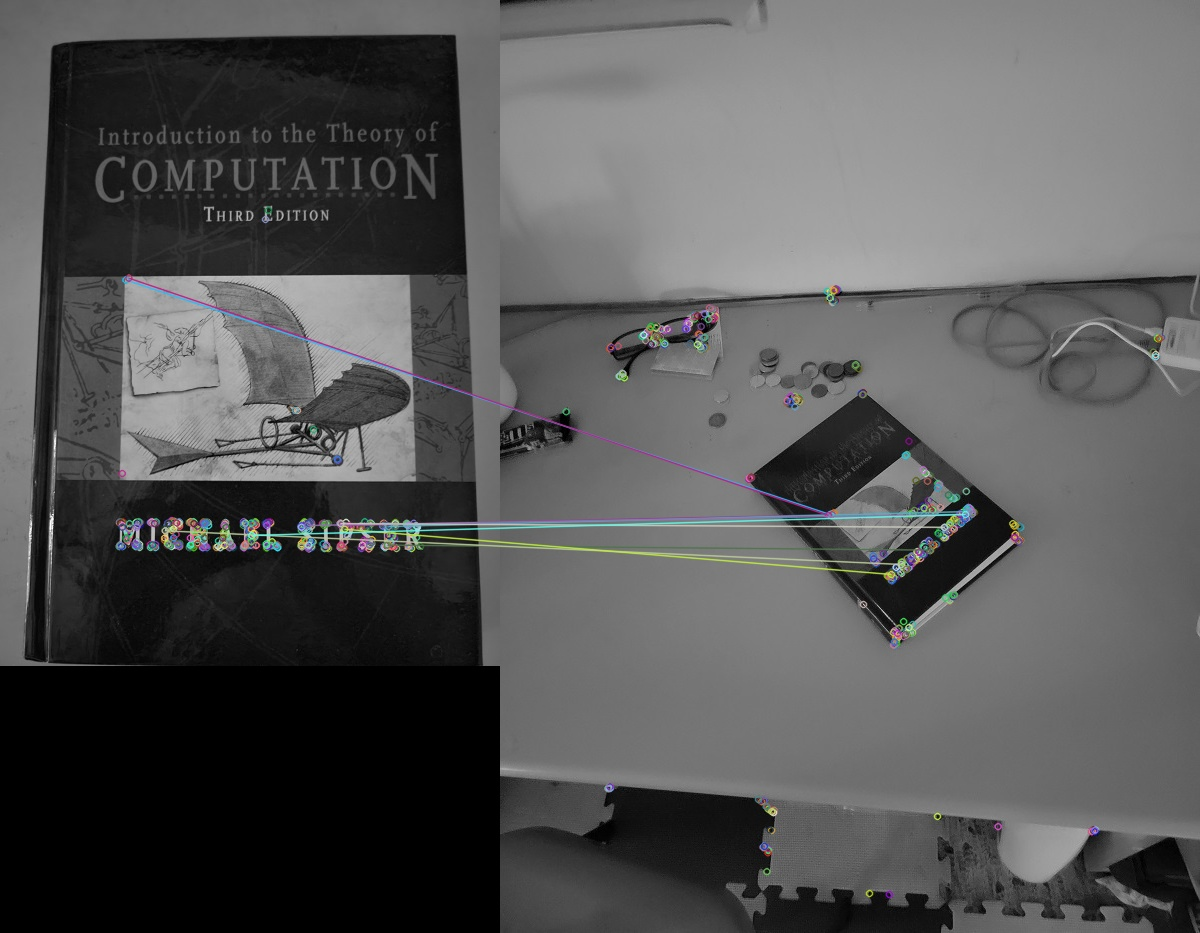
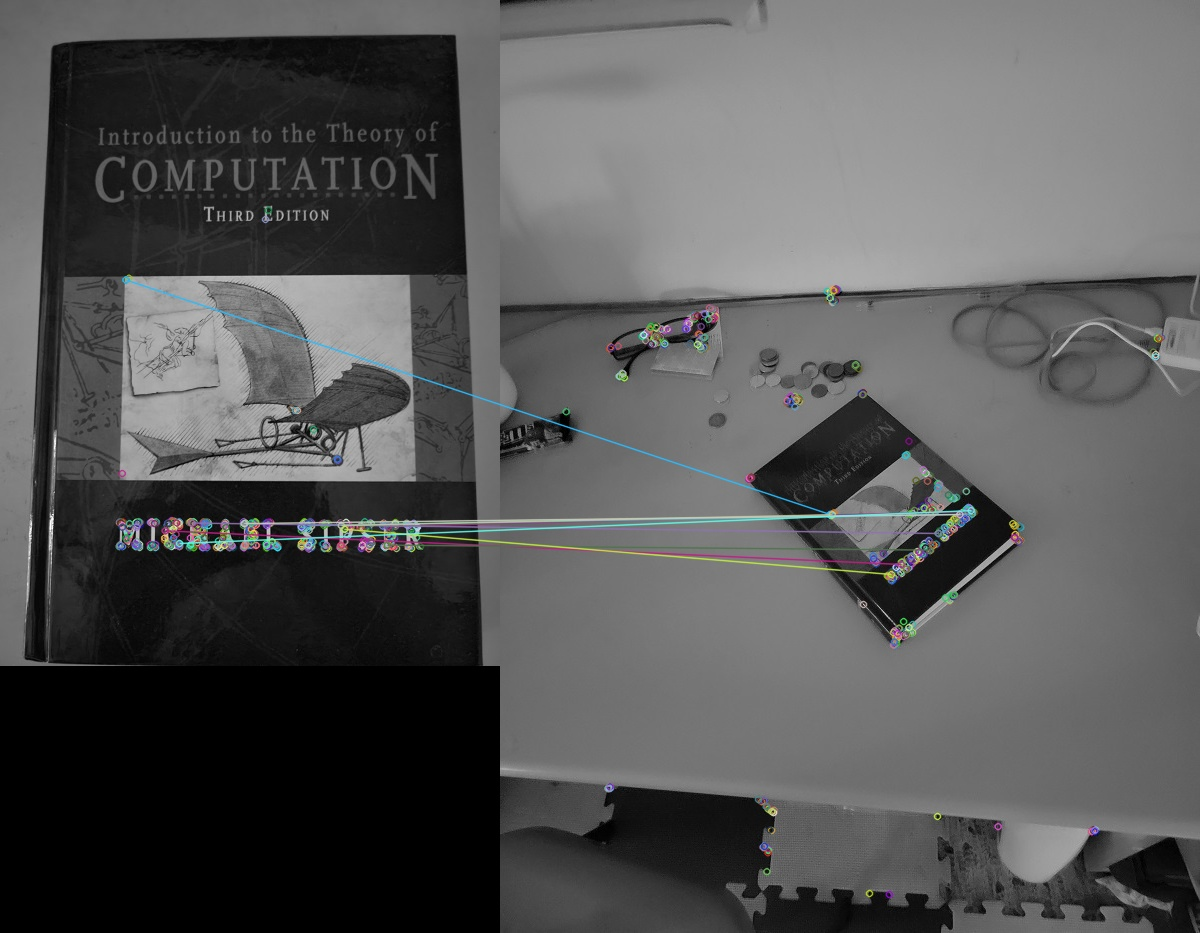
5/31 update lab11

diff --git a/lab11/lab11.py b/lab11/lab11.py
@@ -15,7 +15,7 @@ def main():
     detector = cv2.xfeatures2d.SURF_create()
     keypoints1, descriptors1 = detector.detectAndCompute(img1, None)
     keypoints2, descriptors2 = detector.detectAndCompute(img2, None)
-    matcher = cv2.BFMatcher(cv2.NORM_L1,crossCheck=False)
+    matcher = cv2.BFMatcher(cv2.NORM_L2,crossCheck=True)
     matches = matcher.match(descriptors1, descriptors2)
 
     matches = sorted(matches, key = lambda x : x.distance)
@@ -34,7 +34,7 @@ def main():
     detector = cv2.xfeatures2d.SIFT_create()
     keypoints1, descriptors1 = detector.detectAndCompute(img1, None)
     keypoints2, descriptors2 = detector.detectAndCompute(img2, None)
-    matcher = cv2.BFMatcher(cv2.NORM_L1,crossCheck=False)
+    matcher = cv2.BFMatcher(cv2.NORM_L2,crossCheck=True)
     matches = matcher.match(descriptors1, descriptors2)
 
     matches = sorted(matches, key = lambda x : x.distance)
@@ -54,7 +54,7 @@ def main():
     detector = cv2.ORB_create()
     keypoints1, descriptors1 = detector.detectAndCompute(img1, None)
     keypoints2, descriptors2 = detector.detectAndCompute(img2, None)
-    matcher = cv2.BFMatcher(cv2.NORM_L1,crossCheck=False)
+    matcher = cv2.BFMatcher(cv2.NORM_L2,crossCheck=True)
     matches = matcher.match(descriptors1, descriptors2)
 
     matches = sorted(matches, key = lambda x : x.distance)
